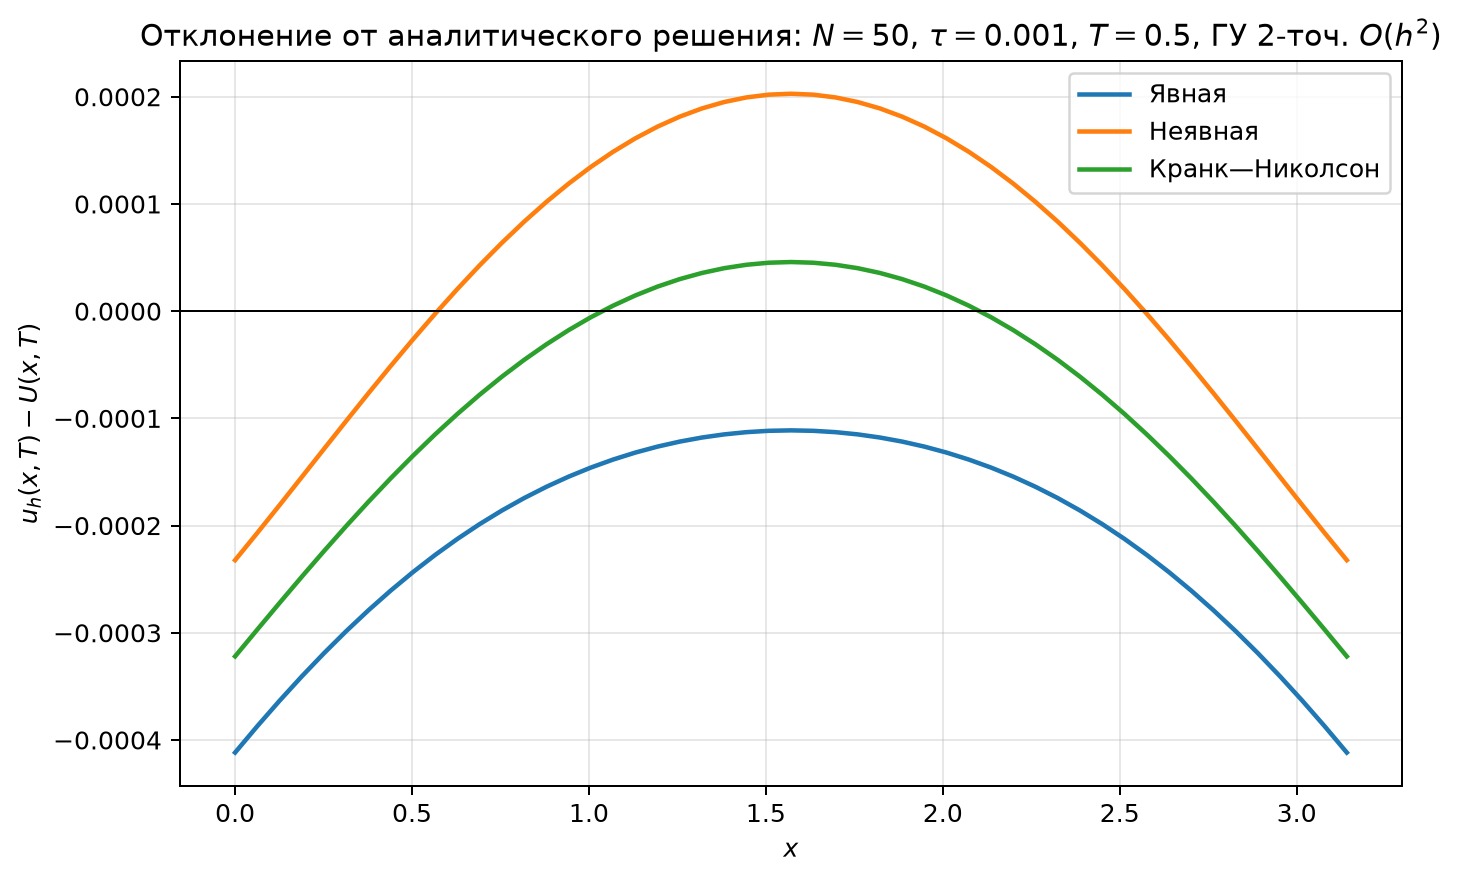
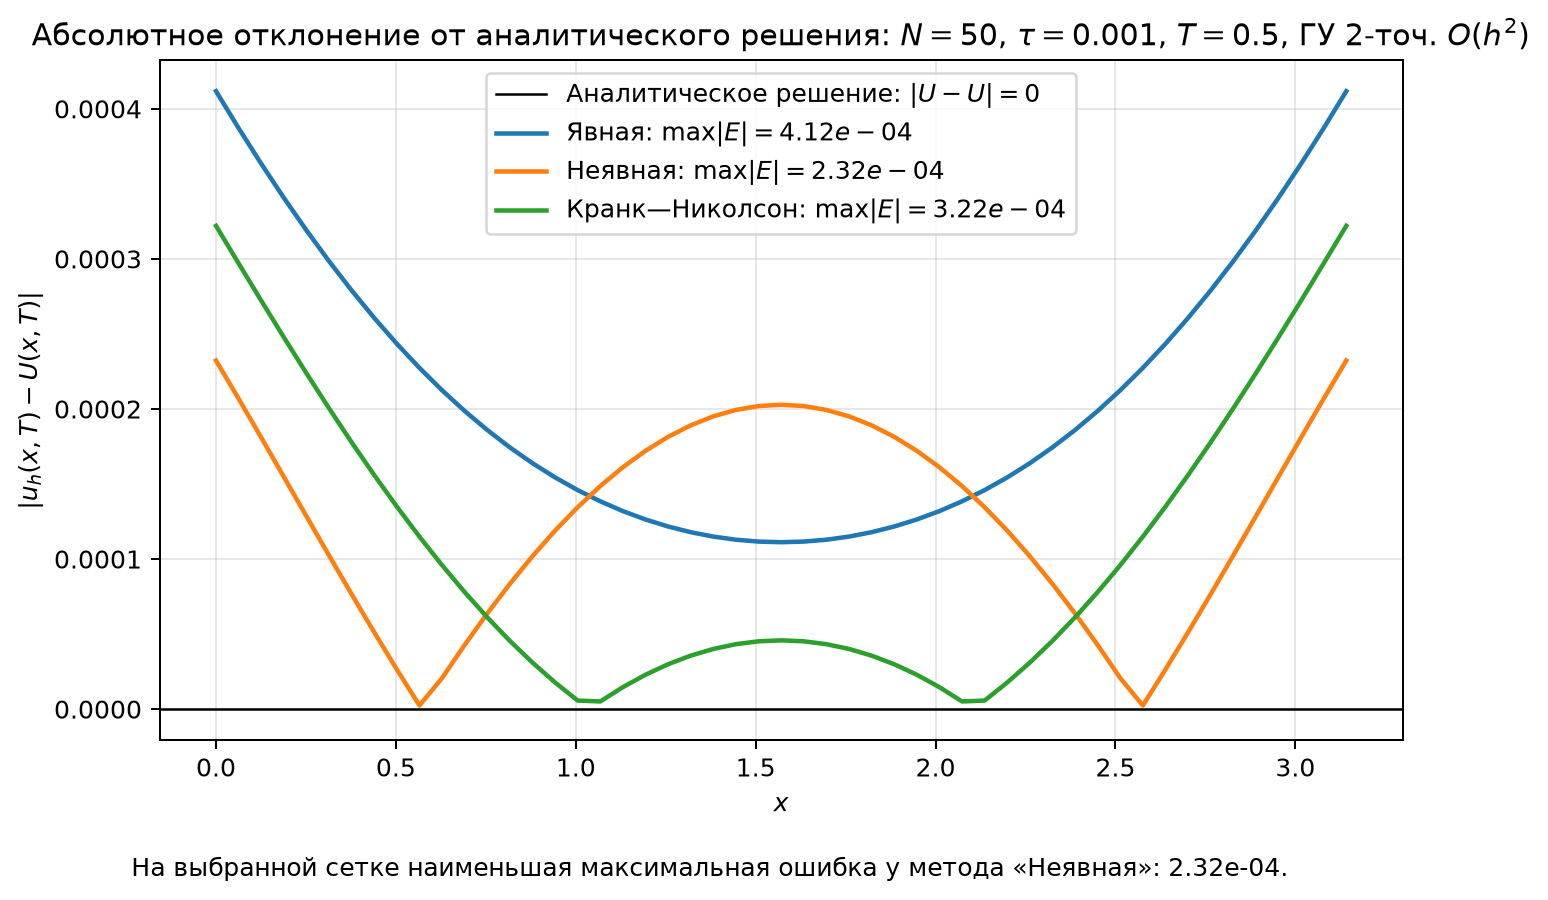
рр

diff --git a/lab5/main.py b/lab5/main.py
@@ -256,22 +256,49 @@ def plot_results(a=1.0, T=0.5, output_dir=None, show=False):
     deviation_N = 50
     deviation_tau = 0.001
     fig, ax = plt.subplots(figsize=(8, 5))
+    ax.axhline(
+        0.0,
+        color="black",
+        linewidth=1.0,
+        label=r"Аналитическое решение: $|U-U|=0$",
+    )
+    max_deviations = {}
     for label, solver in SCHEMES:
         xs, deviation = _solution_error(solver, a, deviation_N, deviation_tau, T)
-        ax.plot(xs, deviation, linewidth=1.8, label=label)
-    ax.axhline(0.0, color="black", linewidth=0.8)
+        absolute_deviation = np.abs(deviation)
+        max_deviation = float(np.max(absolute_deviation))
+        max_deviations[label] = max_deviation
+        ax.plot(
+            xs,
+            absolute_deviation,
+            linewidth=1.8,
+            label=rf"{label}: $\max |E|={max_deviation:.2e}$",
+        )
+
+    best_method = min(max_deviations, key=max_deviations.get)  # type: ignore
+    conclusion = (
+        f"На выбранной сетке наименьшая максимальная ошибка у метода "
+        f"«{best_method}»: {max_deviations[best_method]:.2e}."
+    )
     ax.set_xlabel(r"$x$")
-    ax.set_ylabel(r"$u_h(x, T)-U(x, T)$")
+    ax.set_ylabel(r"$|u_h(x, T)-U(x, T)|$")
     ax.set_title(
-        rf"Отклонение от аналитического решения: $N={deviation_N}$, "
+        rf"Абсолютное отклонение от аналитического решения: $N={deviation_N}$, "
         rf"$\tau={deviation_tau:g}$, $T={T}$, ГУ 2-точ. $O(h^2)$"
     )
     ax.grid(True, alpha=0.3)
     ax.legend()
-    fig.tight_layout()
+    fig.text(0.5, 0.015, conclusion, ha="center")
+    fig.tight_layout(rect=(0, 0.05, 1, 1))
     path = output_dir / "solution_deviation.png"
     fig.savefig(path, dpi=180, bbox_inches="tight")
     paths.append(path)
+
+    print(
+        f"{conclusion} Сравнение относится к N={deviation_N}, "
+        f"tau={deviation_tau:g}, T={T}; в общем случае схема "
+        "Кранка—Николсона имеет более высокий порядок точности по времени."
+    )
 
     if show:
         plt.show()
